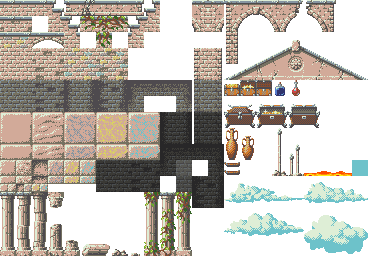
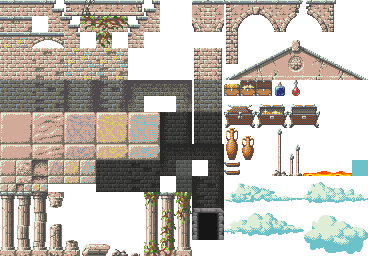
Added a moving platform

Changed region(s): [[0.5082, 0.8125, 0.6277, 0.9375]]

diff --git a/lib/game/entities/mover.js b/lib/game/entities/mover.js
@@ -1,0 +1,109 @@
+/*
+Simple Mover that visits all its targets in an ordered fashion. You can use
+the void entities (or any other) as targets.
+
+
+Keys for Weltmeister:
+
+speed
+	Traveling speed of the mover in pixels per second.
+	Default: 20
+	
+target.1, target.2 ... target.n
+	Names of the entities to visit.
+*/
+
+ig.module(
+	'game.entities.mover'
+)
+.requires(
+	'impact.entity'
+)
+.defines(function(){
+	
+EntityMover = ig.Entity.extend({
+	size: {x: 80, y: 16},
+	maxVel: {x: 100, y: 100},
+	
+	type: ig.Entity.TYPE.NONE,
+	checkAgainst: ig.Entity.TYPE.NONE,
+	collides: ig.Entity.COLLIDES.FIXED,
+	
+	target: null,
+	targets: [],
+	currentTarget: 0,
+	speed: 20,
+	gravityFactor: 0,
+	width: 5,
+	
+	animSheet: new ig.AnimationSheet('media/platform_mover.png', 80, 16),
+	
+	init: function( x, y, settings ) {
+		this.addAnim('five', 1, [0]);
+		this.addAnim('four', 1, [1]);
+		this.addAnim('three', 1, [2]);
+		this.addAnim('two', 1, [3]);
+		this.parent( x, y, settings );
+		this.resize();
+		
+		// Transform the target object into an ordered array of targets
+		this.targets = ig.ksort( this.target );
+	},
+	
+	update: function() {
+		var oldDistance = 0;
+		var target = ig.game.getEntityByName( this.targets[this.currentTarget] );
+		if( target ) {
+			oldDistance = this.distanceTo(target);
+			
+			var angle = this.angleTo( target );
+			this.vel.x = Math.cos(angle) * this.speed;
+			this.vel.y = Math.sin(angle) * this.speed;
+		}
+		else {
+			this.vel.x = 0;
+			this.vel.y = 0;
+		}
+		
+		this.parent();
+		
+		// Are we close to the target or has the distance actually increased?
+		// -> Set new target
+		var newDistance = this.distanceTo(target);
+		if( target && (newDistance > oldDistance || newDistance < 0.5) ) {
+			this.pos.x = target.pos.x + target.size.x*.5 - this.size.x*.5;
+			this.pos.y = target.pos.y + target.size.y*.5 - this.size.y*.5;
+			this.currentTarget++;
+			if( this.currentTarget >= this.targets.length && this.targets.length > 1 ) {
+				this.currentTarget = 0;
+			}
+		}
+	},
+
+	resize: function() {
+		switch (this.width) {
+			case 5:
+				this.currentAnim = this.anims.five;
+				this.size = {x:80, y:16};
+				break;
+			case 4:
+				this.currentAnim = this.anims.four;
+				this.size = {x:64, y:16};
+				break;
+			case 3:
+				this.currentAnim = this.anims.three;
+				this.size = {x:48, y:16};
+				break;
+			case 2:
+				this.currentAnim = this.anims.two;
+				this.size = {x:32, y:16};
+				break;
+			default:
+				this.currentAnim = this.anims.five;
+				this.size = {x:80, y:16};
+				break;
+		}
+	},
+});
+
+});
